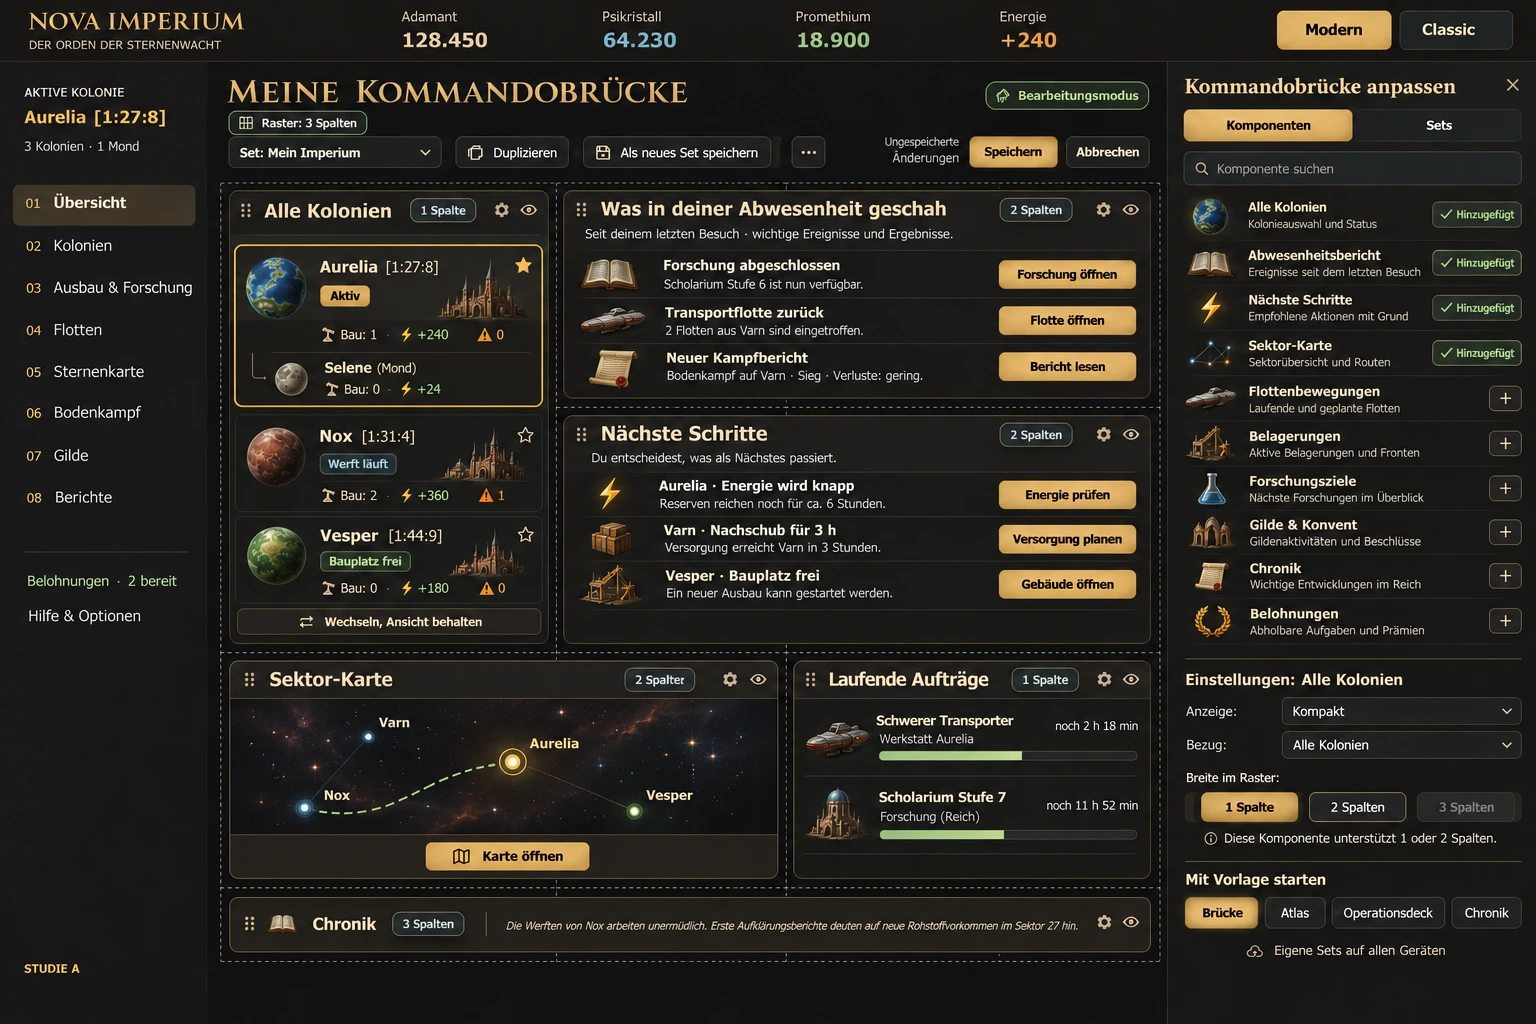
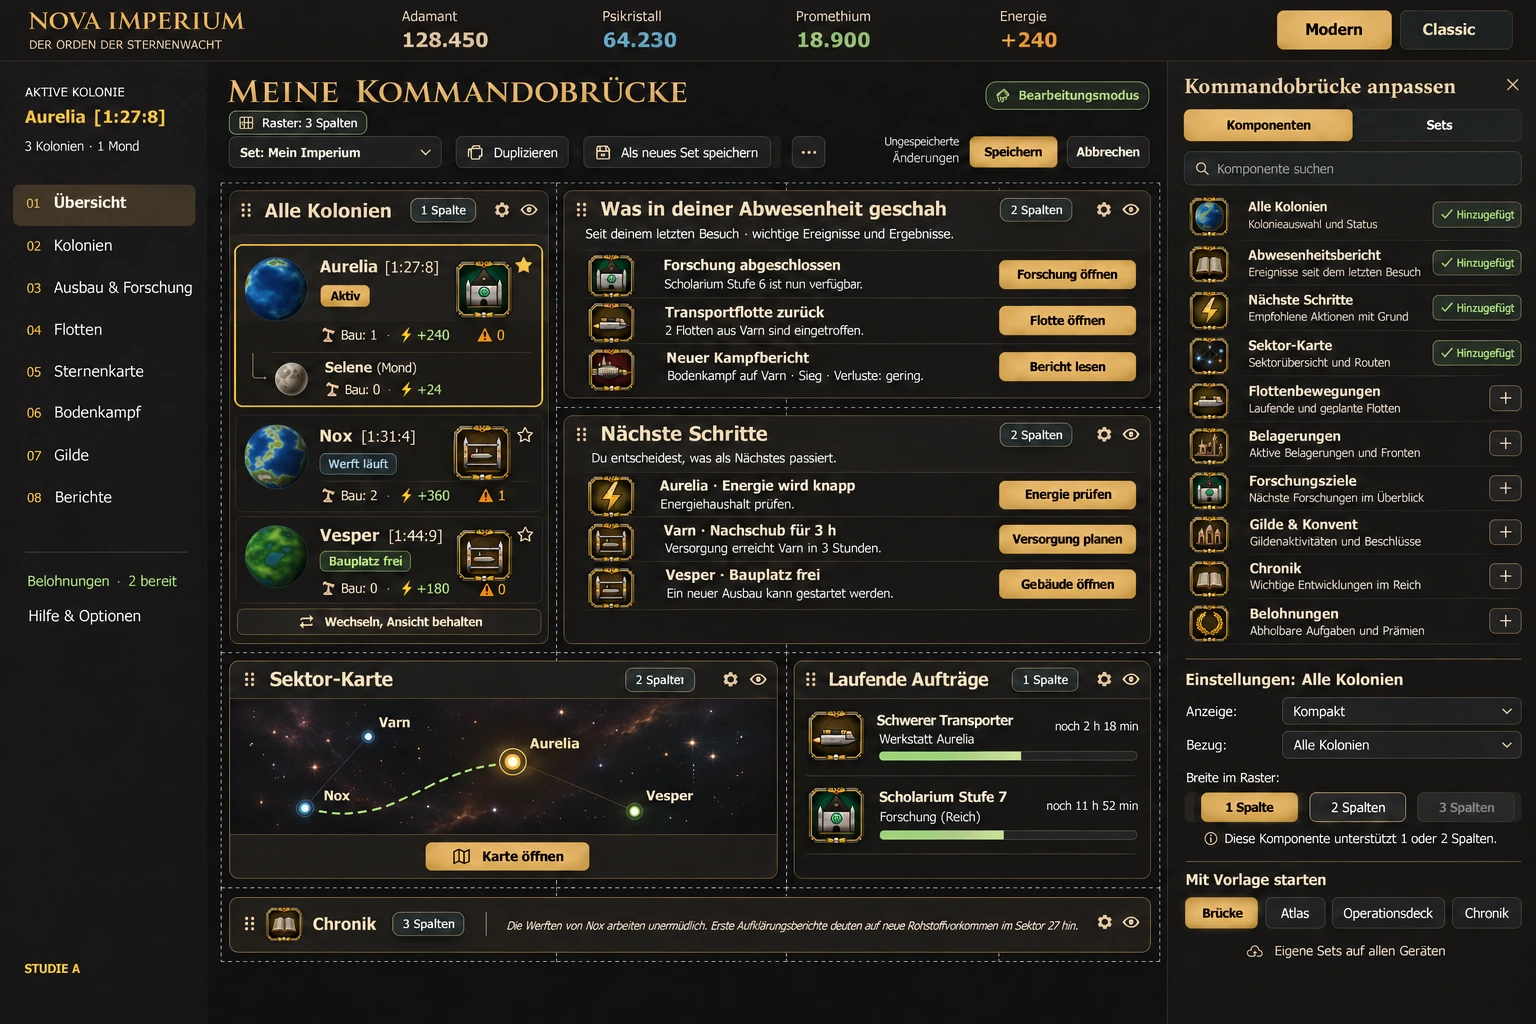
docs: align dashboard concept with original Nova artwork

diff --git a/docs/design/interface-v3/configurable-dashboard.md b/docs/design/interface-v3/configurable-dashboard.md
@@ -8,11 +8,13 @@ The dashboard uses a grid. A component may occupy **one, two or three columns**,
 
 The global Modern/Classic switching requirement and the integration with galaxy map #160 and siege #155 remain unchanged.
 
+**[E] Asset direction:** reuse the existing icons under `src/client/static/icons/` and planet textures under `src/client/static/planets/`. Create a new icon only when an appropriate original asset does not exist, following the established framed bronze/gold illustration style. The owner explicitly likes the Sektor-Karte and editing mode of this study; retain those directions. Production UI must reference original source files directly, not extract icons from a generated mockup.
+
 ## Image
 
 ![Configurable grid dashboard](screenshots/configurable-dashboard-grid.webp)
 
-Illustrative AI-generated UI concept based on the earlier Nova study. Original generation followed by a grid-specific image edit. Example data and wording are not game rules or a pixel-perfect implementation specification; in particular reserve-style wording for energy is illustrative, not a change from Nova's production/consumption energy balance. The image shows editing mode, one-column colonies, two-column briefing/next steps/map, one-column queues, and a full-width three-column chronicle. There is a single visual grid, not four separate dashboards that must all ship.
+Illustrative AI-generated UI concept based on the earlier Nova study. Original generation followed by a grid-specific image edit and an asset-reference correction using the actual Nova icon/planet sheet. Example data and wording are not game rules or a pixel-perfect implementation specification; energy remains Nova's production/consumption balance rather than a stored reserve. The image shows editing mode, one-column colonies, two-column briefing/next steps/map, one-column queues, and a full-width three-column chronicle. There is a single visual grid, not four separate dashboards that must all ship.
 
 ## Suggested component catalog [V]
 
